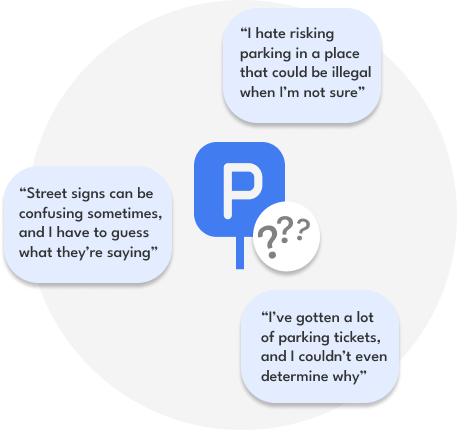
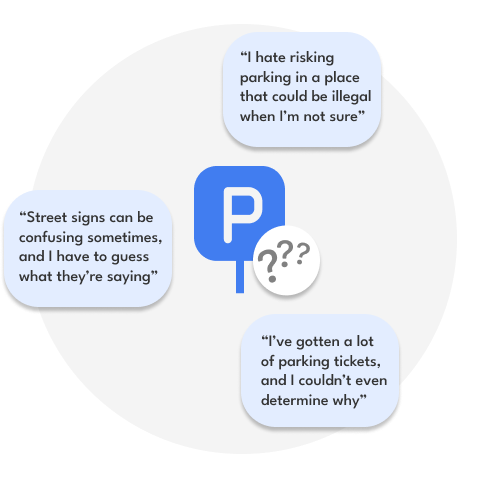
completing updated spot

diff --git a/spot.html b/spot.html
@@ -113,19 +113,19 @@
 <p>We created a survey and sent it out to large, diverse groups of individuals. This group included commuters who drove to college every day, working professionals, and those who like to go out and attend events in other cities.</p>
 
 <p>The 70+ responses from our survey strongly supported our initial perception of people’s experience with parking.</p>
-<div class="statistic"> <img src="images/chart1.png" alt="" loading = "lazy"><p><strong>Less than 25%</strong> of people say they <strong>find parking right away</strong> in a new place. 60% say it takes 5-10 minutes.</p></div>
-<div class="statistic"> <img src="images/chart2.png" alt="" loading = "lazy"><p><strong>Only 12%</strong> of respondents said that they <strong>always know if their spot is legal.</strong> Half of respondents know if their parking is legal only some of the time or less.</p></div>
-<div class="statistic"> <img src="images/chart3.png" alt="" loading = "lazy"><p><strong>80% of the respondents</strong> have <strong>experienced confusion</strong> when trying to comprehend signs with parking information.</p></div>
+<div class="statistic"> <img src="images/chart1.png" alt="" loading = "lazy"><div class="line"></div><p><strong>Less than 25%</strong> of people say they <strong>find parking right away</strong> in a new place. 60% say it takes 5-10 minutes.</p></div>
+<div class="statistic"> <img src="images/chart2.png" alt="" loading = "lazy"><div class="line"></div><p><strong>Only 12%</strong> of respondents said that they <strong>always know if their spot is legal.</strong> Half of respondents know if their parking is legal only some of the time or less.</p></div>
+<div class="statistic"> <img src="images/chart3.png" alt="" loading = "lazy"><div class="line"></div><p><strong>80% of the respondents</strong> have <strong>experienced confusion</strong> when trying to comprehend signs with parking information.</p></div>
 <p style="margin-top:50px;">The survey alone has given us clear insights about the general population’s experience with parking, as well as how common, and when, struggles and confusion occur. With this information, we were able to administer interviews with thought-provoking questions, and have conversations that further satisfied our research goals.</p>
 <br>
 <p>These interviews gave us integral information about specific aspects of parking that are common pain points, as well as what people’s process of finding parking is - ultimately achieving our research goals.</p>
 <h2 style="margin-top:100px;">Analyzing Data</h2>
-<p>Taking insights from our survey, as well as interviews and what participants shared, we found the biggest hardships people had with parking could mostly fall into 3 themes: wasting time, wasting money, and a lack of knowledge on legality of spaces.</p>
+<p>Taking insights from our survey, as well as interviews and what participants shared, we found the biggest hardships people had with parking could mostly fall into 3 themes: time, information about legality of spaces, and money.</p>
 <p>We organized lots of thoughts and ideas discussed by people we interviewed into these three themes - many of these ideas/insights were shared by multiple respondents. Grouping these similar insights together allowed us to focus on and pinpoint important features that would solve the main problems users have with the current parking process.</p>
 
-<div class="statistic"><img src="images/timevisual.png" alt=""><p><strong>Looking for parking takes too much time</strong> - ensure UI allows for quick and easy browsing/discovery of all parking options nearby (like an interactive map), and  ability to check in advance</p></div>
-<div class="statistic"><img src="images/infovisual.png" alt=""><p><strong>It can be difficult to get clear information about parking rules</strong> - have a section where all important information about when parking is legal is shown</p></div>
-<div class="statistic"><img src="images/moneyvisual.png" alt=""><p><strong>There is no easy way to compare the cost of different parking options</strong> - clearly show the cost of parking in different areas and make free parking stand out in the app</p></div>
+<div class="analyze"><img src="images/timevisual.png" alt="" id="quotes"><img src="images/arrow.png" alt=""><p><strong>Looking for parking takes too much time</strong> - ensure UI allows for quick and easy browsing/discovery of all parking options nearby (like an interactive map), and  ability to check in advance</p></div>
+<div class="analyze"><img src="images/infovisual.png" alt="" id="quotes"><img src="images/arrow.png" alt=""><p><strong>It can be difficult to get clear information about parking rules</strong> - have a section where all important information about when parking is legal is shown</p></div>
+<div class="analyze"><img src="images/moneyvisual.png" alt="" id="quotes"><img src="images/arrow.png" alt=""><p><strong>There is no easy way to compare the cost of different parking options</strong> - clearly show the cost of parking in different areas and make free parking stand out in the app</p></div>
 
 
 <h1 style ="margin-top:100px;">Beginning the Design</h1>
@@ -150,10 +150,10 @@
 <p>Free curbside parking is shown in green, and paid parking is shown in blue. Curbsides where parking isn’t legal or available is shown by gray dotted lines. The user can also tap these areas to determine why parking is not allowed (no physical curb space, requires a permit, etc).</p>
 
 
-<div class="designShowcaseL"><img src="images/showcase2.png" alt=""loading="lazy"><div><h3>Learn about parking spots</h3><p>Tapping on an icon or highlighted curbside for parking opens up the spot details, where the user can see the type of parking, how much it costs, and what the active hours are so the user knows how long they’ll have to pay (or when a parking garage closes). Any other specific rules or regulations are listed here as well.</p><p>The user can navigate to the spot with their default maps app, and pay for the meters with Parkmobile.</p></div>
+<div class="designShowcaseL"><img src="images/showcase2.png" alt=""loading="lazy"><div><h3>Learn about parking spots</h3><p>Tapping on an icon or highlighted curbside for parking opens up the spot details, where the user can see the type of parking, how much it costs, and what the active hours are so the user knows how long they’ll have to pay (or when a parking garage closes).</p><p>The user can navigate to the spot with their default maps app, and pay for the meters with Parkmobile.</p></div>
 </div>
 
-<div class="designShowcaseR"><div><h3>Show only spots that are useful</h3><p>For the filters screen, we wanted to ensure all aspects of a parking spot were covered, to help with any kind of stay. Length of parking is important as some spots only allow people to park for 2 hours, for example, so this would ensure users are seeing spots that work best for their situation. If users don’t want to pay for parking, they can choose to only see free parking as well. </p></div>
+<div class="designShowcaseR"><div><h3>Show only spots that are useful</h3><p>For the filters screen, we wanted to ensure all aspects of a parking spot were covered, to accommodate for any parking situation. Filtering out length of parking and parking cost, for example, can help users narrow down the exact spots that suits their needs.</p></div>
 <img src="images/showcase3.png" alt="" loading="lazy">
 </div>
 

diff --git a/spotstyles.css b/spotstyles.css
@@ -334,6 +334,29 @@ strong{
     margin-top:100px;
 }
 
+.analyze{
+  display:flex;
+  align-items: center;
+  margin-top:150px;
+  gap: 50px;
+  margin-left:-20%;
+  margin-right:-20% ;
+}
+
+#quotes{
+  width:50% !important;
+    height:auto;
+
+}
+
+.line{
+  width:5px;
+  height:150px;
+  background-color: #DBDBDB;
+  margin-right:25px;
+
+}
+
 .statistic img{
   width:75% !important;
     height:auto;
